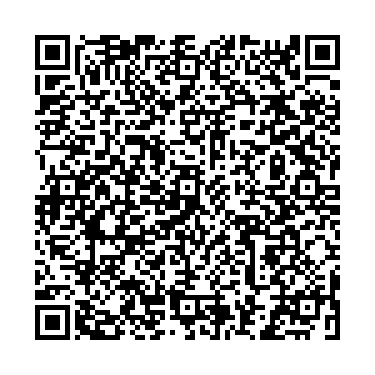
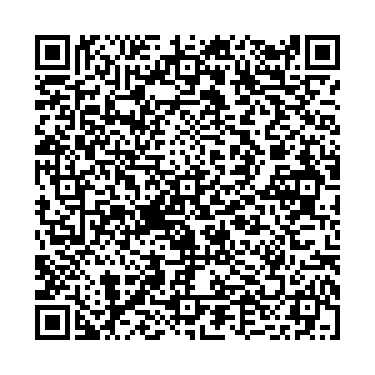
add endpoint get qr

Changed region(s): [[0.088, 0.088, 0.9093, 0.9093], [0.44, 0.8507, 0.616, 0.9093]]

diff --git a/index.js b/index.js
@@ -1,9 +1,10 @@
 const express = require("express");
 const fs = require("fs");
-const chatBot = require("./app");
 const { join } = require("path");
 const { createReadStream } = require("fs");
-// const { chatBot } = require("./src/app");
+const chatBot = require("./app");
+require("dotenv").config();
+
 const app = express();
 
 // Endpoint GET para obtener todos los menús
@@ -28,6 +29,17 @@ const port = 3001;
 
 // Iniciar el servidor
 
+const verificarAutenticacion = (req, res, next) => {
+  const token = req.headers.authorization;
+
+  // Verifica si el token es válido
+  if (token === process.env.TOKEN) {
+    next();
+  } else {
+    res.status(401).send("Acceso no autorizado");
+  }
+};
+
 app.get("/get-qr", async (_, res) => {
   const YOUR_PATH_QR = join(process.cwd(), `bot.qr.png`);
   const fileStream = createReadStream(YOUR_PATH_QR);
@@ -37,5 +49,6 @@ app.get("/get-qr", async (_, res) => {
 });
 
 app.listen(port, () => {
+  chatBot();
   console.log(`Servidor escuchando en el puerto ${port}`);
 });

diff --git a/app.js b/app.js
@@ -1,25 +1,14 @@
 const { createBot, createProvider, createFlow } = require("@bot-whatsapp/bot");
-const express = require("express");
-const { join } = require("path");
-const { createReadStream } = require("fs");
+
 const QRPortalWeb = require("@bot-whatsapp/portal");
 const BaileysProvider = require("@bot-whatsapp/provider/baileys");
 const MockAdapter = require("@bot-whatsapp/database/mock");
-const app = express();
 
 const { flowPrincipal } = require("./flows/restaurante.js");
 const { flowClima } = require("./flows/clima.js");
 
 const BOTNAME = "BOTARDO";
 QRPortalWeb({ name: BOTNAME, port: 3005 });
-
-app.get("/get-qr", async (_, res) => {
-  const YOUR_PATH_QR = join(process.cwd(), `bot.qr.png`);
-  const fileStream = createReadStream(YOUR_PATH_QR);
-
-  res.writeHead(200, { "Content-Type": "image/png" });
-  fileStream.pipe(res);
-});
 
 const chatBot = async () => {
   const adapterDB = new MockAdapter();
